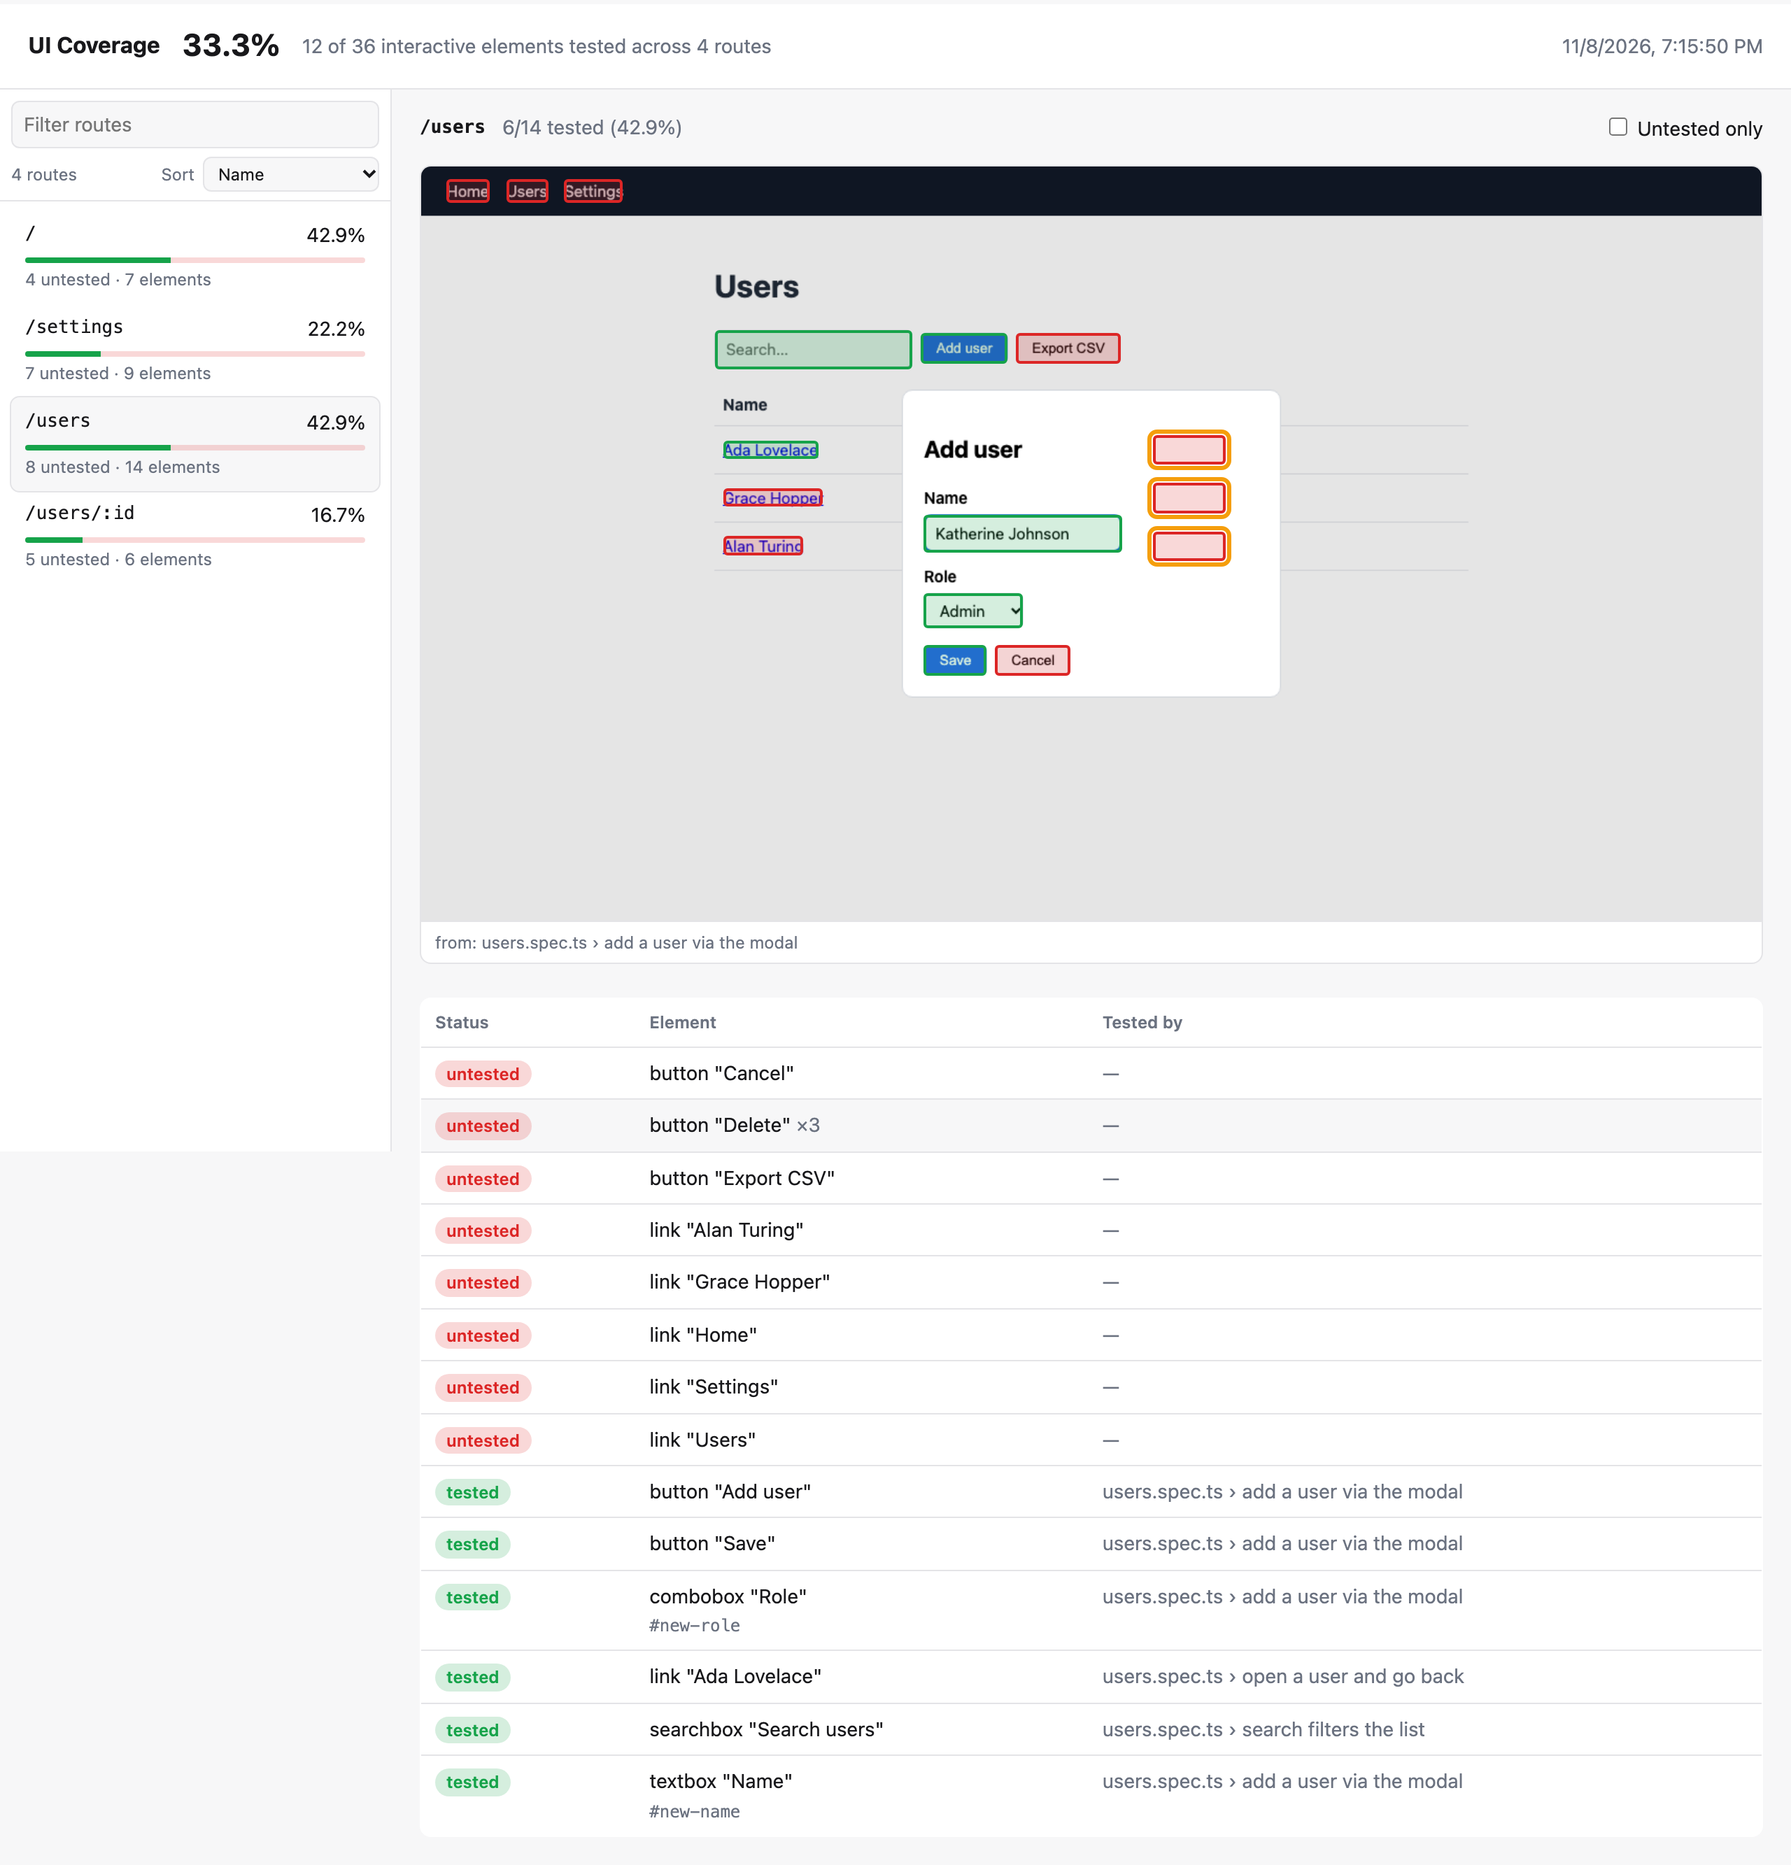
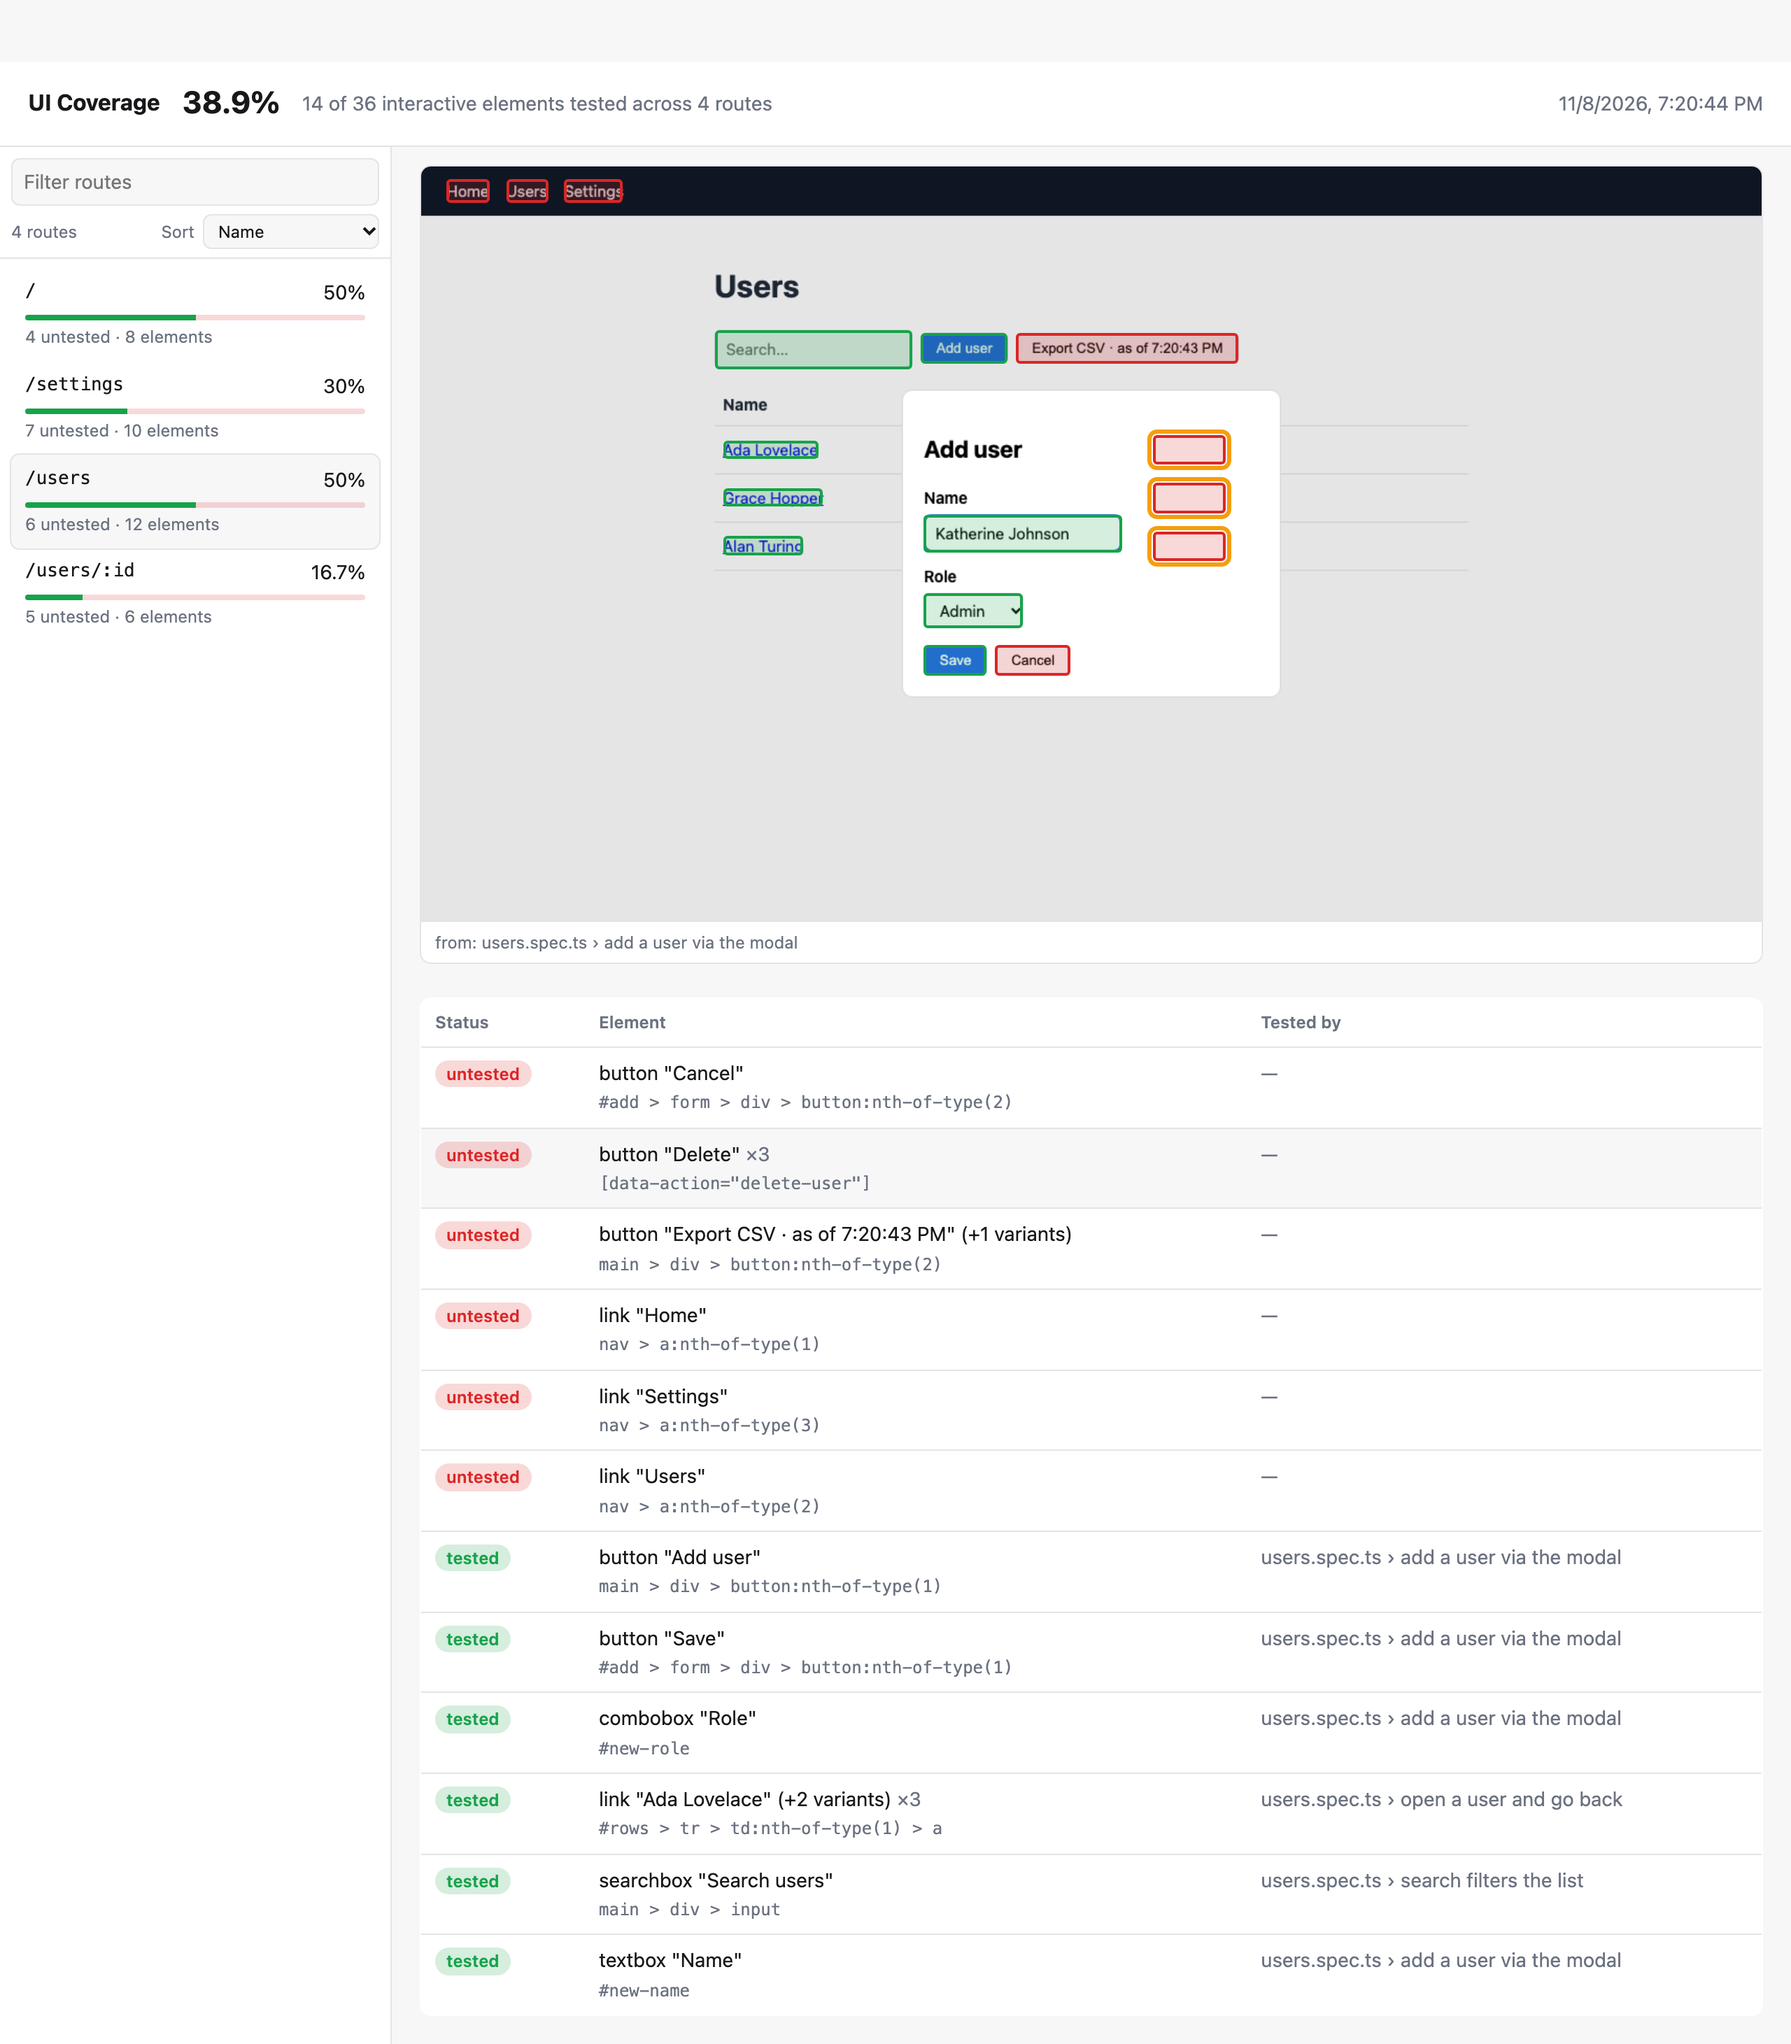
Carry failing-only state into the new report; skip cropped elements in screenshot choice
- html.ts: amber "failing tests only" pill/box and "(failed)" suffix from
  #26, plus a failing-only count in the sidebar and header.
- Snapshots record screenshotHeight when cropped; aggregate ignores elements
  below it when choosing screenshots and drops their boxes.
- Demo config: UICOV_FORMAT=jpeg to record JPEG screenshots.
- Pills don't wrap; refreshed README images.

diff --git a/src/html.ts b/src/html.ts
@@ -103,7 +103,7 @@ table { width: 100%; border-collapse: collapse; background: var(--panel); border
 th, td { text-align: left; padding: 8px 10px; border-bottom: 1px solid var(--border); vertical-align: top; }
 th { font-size: 12px; color: var(--muted); font-weight: 600; }
 tr.hl td { background: var(--bg); }
-.pill { display: inline-block; padding: 1px 8px; border-radius: 999px; font-size: 12px; font-weight: 600; }
+.pill { display: inline-block; white-space: nowrap; padding: 1px 8px; border-radius: 999px; font-size: 12px; font-weight: 600; }
 .pill.ok { color: var(--ok); background: var(--ok-bg); }
 .pill.bad { color: var(--bad); background: var(--bad-bg); }
 .pill.warn { color: var(--hl); background: rgba(245,158,11,.18); }

diff --git a/playwright.config.ts b/playwright.config.ts
@@ -39,6 +39,8 @@ export default defineConfig<{ uiCoverage: Partial<UiCoverageOptions> }>({
     uiCoverage: {
       // Delete buttons on /users carry data-action; use it as their identity.
       significantAttributes: ['data-action'],
+      // UICOV_FORMAT=jpeg records JPEG screenshots instead of PNG.
+      ...(process.env.UICOV_FORMAT === 'jpeg' ? { format: 'jpeg' as const } : {}),
     },
   },
   projects: [{ name: 'chromium', use: { ...devices['Desktop Chrome'] } }],
